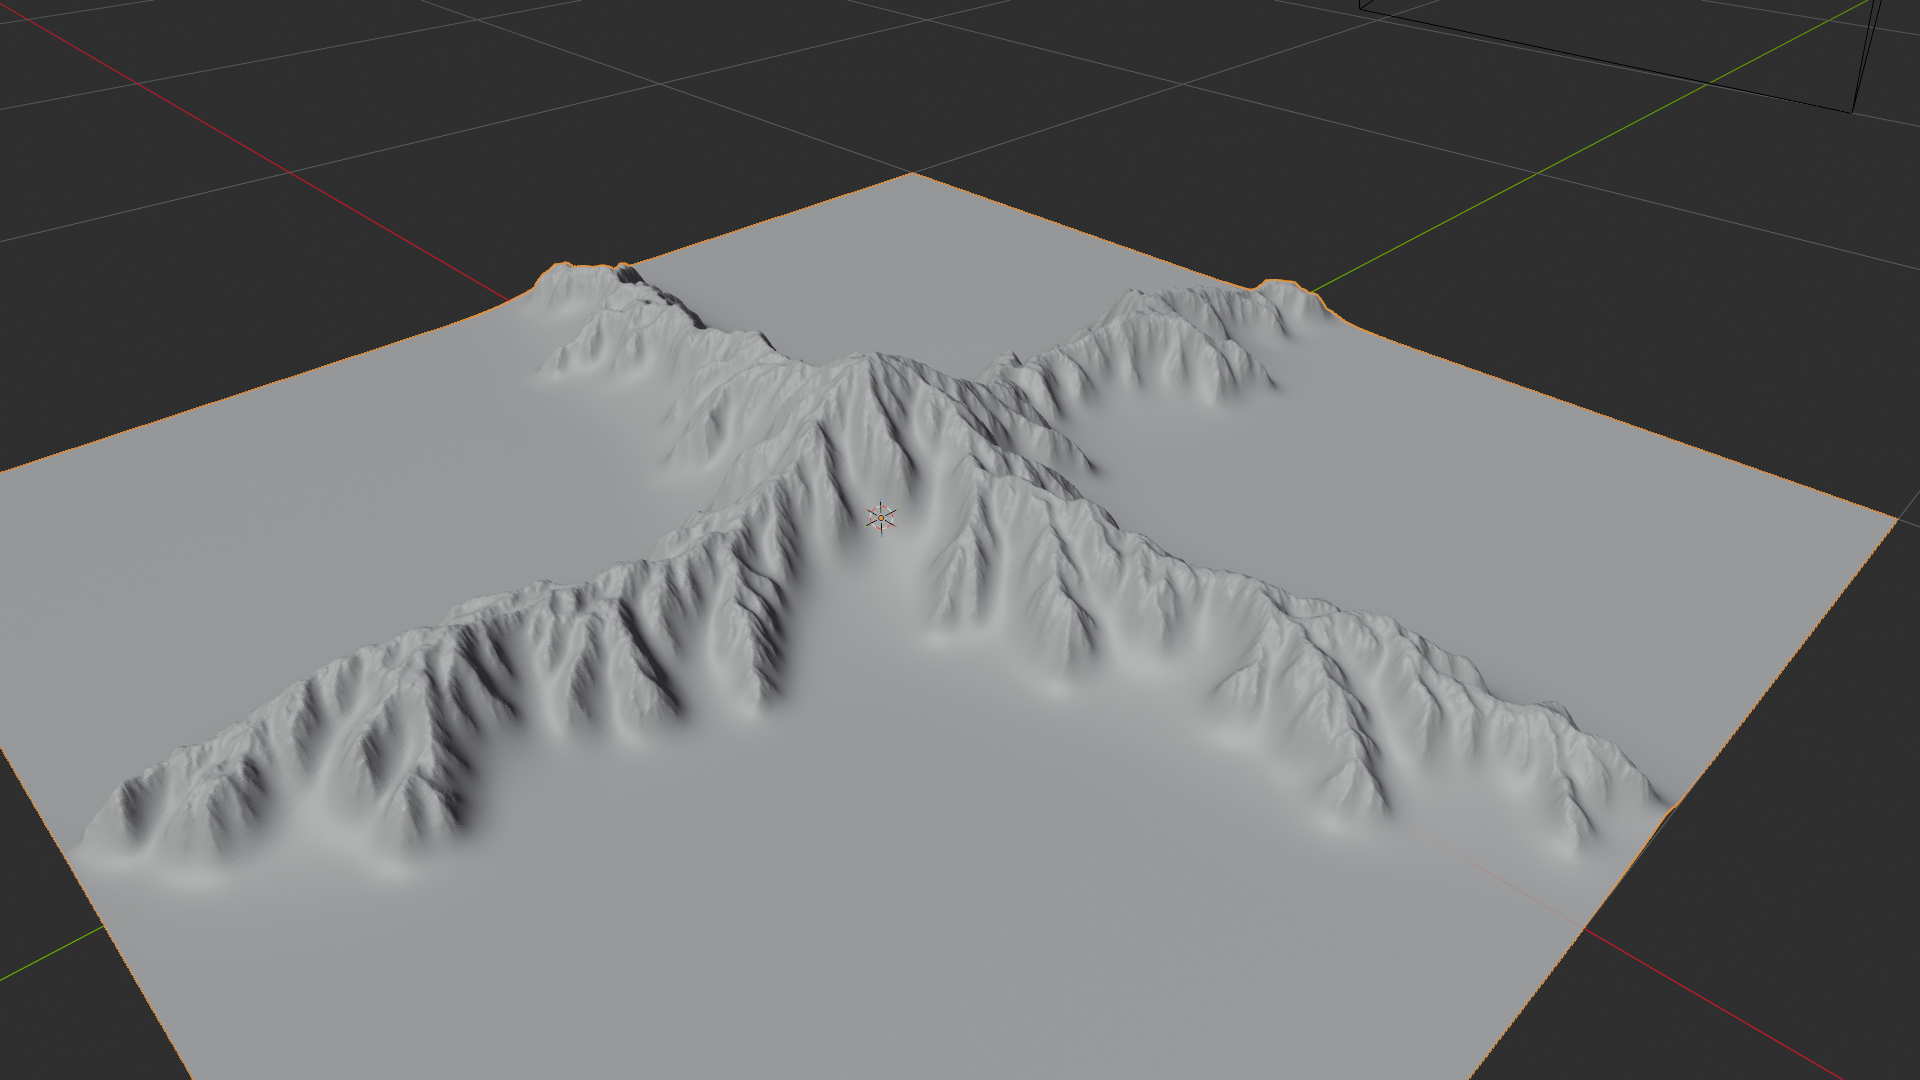
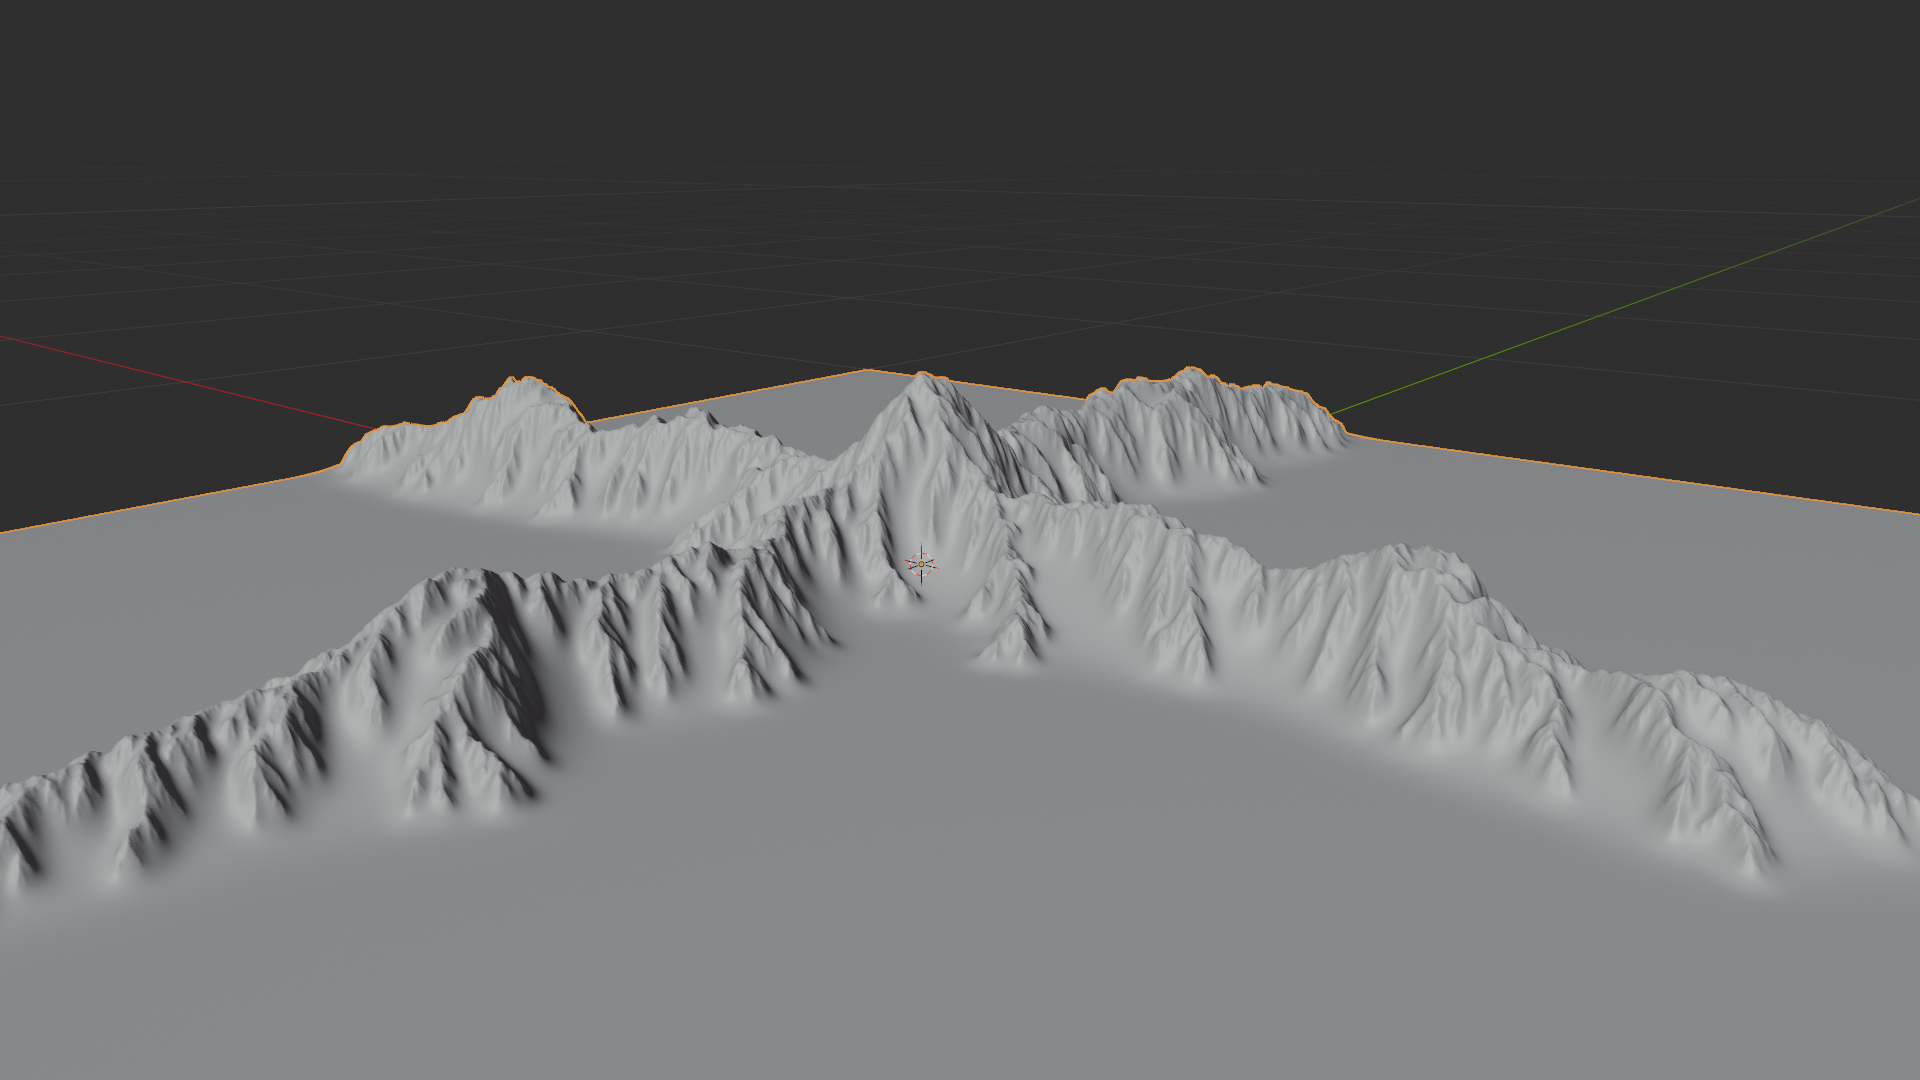
fixed blur size and image assignment

Changed region(s): [[0.0, 0.1528, 1.0, 1.0], [0.2812, 0.4278, 0.3125, 0.4889], [0.875, 0.0611, 0.9062, 0.0917]]

diff --git a/addon/geonodes.py b/addon/geonodes.py
@@ -127,31 +127,23 @@ def ensure_terrain_setup():
 
 
 def assign_heightmap_to_node_group(image_name=HEIGHTMAP_IMAGE_NAME):
-    """Find the Image Texture node inside the geometry node group and assign the image.
-    
-    This is optional because the image datablock is referenced by name; if the
-    node already uses the same name, the pixel data will be updated automatically.
-    """
     node_group = get_geonode_group()
     if node_group is None:
         return
-    
-    # Find the first node of type 'TEX_IMAGE'
-    image_node = None
-    for node in node_group.nodes:
-        if node.type == 'TEX_IMAGE':
-            image_node = node
-            break
-    
+
+    # Grab the node directly by the exact name you gave it
+    image_node = node_group.nodes.get("DLA_Texture_Node")
+
     if image_node is None:
-        logger.warning("No Image Texture node found in the geometry node group.")
+        print("ERROR: Could not find 'DLA_Texture_Node' in the master node group.")
         return
-    
-    # Assign the image datablock if it exists
+
+    # Link the generated heightmap datablock to the node's Image socket
     if image_name in bpy.data.images:
-        image_node.image = bpy.data.images[image_name]
+        image_node.inputs['Image'].default_value = bpy.data.images[image_name]
+        print(f"SUCCESS: Linked {image_name} to {image_node.name}!")
     else:
-        logger.warning(f"Image '{image_name}' not found; node will stay empty.")
+        print(f"ERROR: Image '{image_name}' not found in Blender data.")
 
 
 def register():

diff --git a/addon/properties.py b/addon/properties.py
@@ -16,7 +16,7 @@ class DLAProperties(PropertyGroup):
     resolution: IntProperty(
         name="Resolution",
         description="Width and height of the DLA grid (square)",
-        default=128,
+        default=120,
         min=64,
         max=4096,
         step=64,
@@ -56,7 +56,7 @@ class BlurProperties(PropertyGroup):
     blur_iterations_1: IntProperty(
         name="Blur Iterations 1",
         description="Number of blur iterations for the finest detail level",
-        default=500,
+        default=0,
         min=0,
         max=2000,
         step=10,
@@ -67,7 +67,7 @@ class BlurProperties(PropertyGroup):
     blur_iterations_2: IntProperty(
         name="Blur Iterations 2",
         description="Number of blur iterations for the second detail level",
-        default=50,
+        default=30,
         min=0,
         max=2000,
         step=10,
@@ -78,7 +78,7 @@ class BlurProperties(PropertyGroup):
     blur_iterations_3: IntProperty(
         name="Blur Iterations 3",
         description="Number of blur iterations for the third detail level",
-        default=30,
+        default=50,
         min=0,
         max=2000,
         step=10,
@@ -89,7 +89,7 @@ class BlurProperties(PropertyGroup):
     blur_iterations_4: IntProperty(
         name="Blur Iterations 4",
         description="Number of blur iterations for the largest detail level",
-        default=0,
+        default=500,
         min=0,
         max=2000,
         step=10,